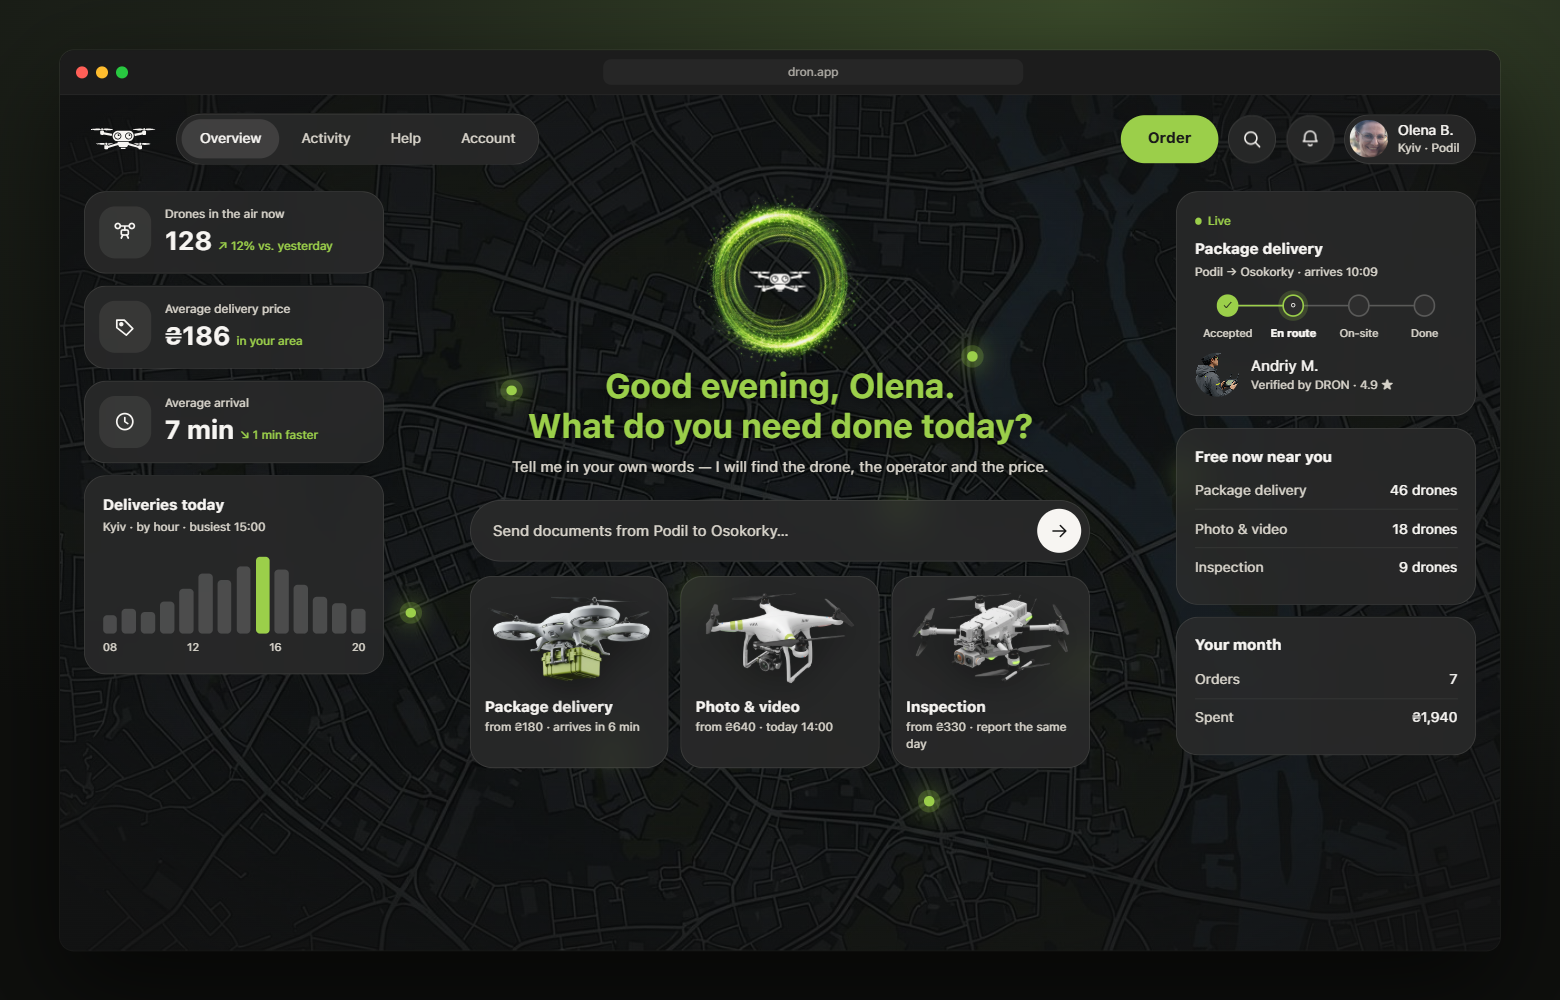
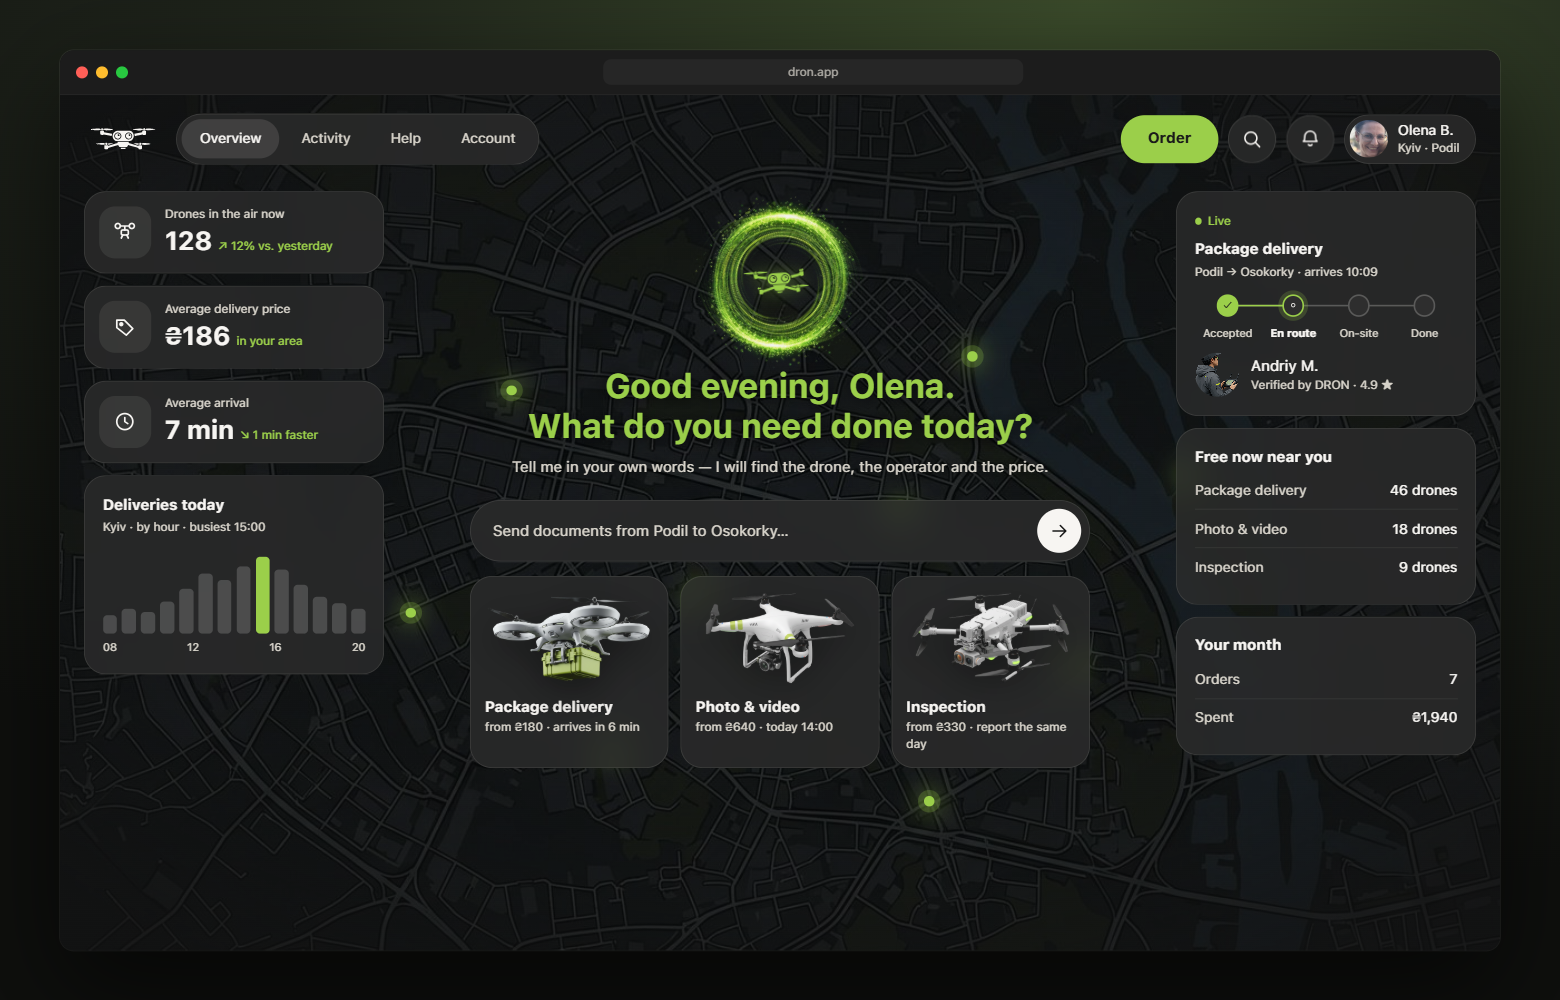
AI preview: the agent's drone is green, its propellers turn and it sways as it hovers

Changed region(s): [[0.4308, 0.186, 0.5538, 0.372]]

diff --git a/responsive/_preview-desktop-ai.html b/responsive/_preview-desktop-ai.html
@@ -70,6 +70,19 @@
                background: url(preview-art/agent-glow.png) center/cover; opacity:.95;
                animation: x-spin 24s linear infinite; }
   @keyframes x-spin { to { transform: rotate(360deg); } }
+  /* the flying mark: green, its four propellers turning, the body swaying as it hovers */
+  .x-fly { width:70px; height:24px; overflow:visible; fill: var(--color-action); filter: drop-shadow(0 0 8px rgba(155,207,74,.55)); }
+  .x-fly__body { transform-box: fill-box; transform-origin: 50% 60%; animation: x-sway 3.6s ease-in-out infinite; }
+  .x-prop { transform-box: fill-box; transform-origin: center; animation: x-prop .14s linear infinite; }
+  .x-prop--tr, .x-prop--bl { animation-delay: -.07s; }
+  @keyframes x-prop { 0%,100% { transform: scaleX(1); } 50% { transform: scaleX(.18); } }
+  @keyframes x-sway {
+    0%   { transform: translate(-5px, 0)    rotate(-6deg); }
+    25%  { transform: translate(0, -3px)    rotate(0deg); }
+    50%  { transform: translate(5px, 0)     rotate(6deg); }
+    75%  { transform: translate(0, 2px)     rotate(0deg); }
+    100% { transform: translate(-5px, 0)    rotate(-6deg); } }
+  @media (prefers-reduced-motion: reduce) { .x-fly__body, .x-prop { animation:none; } }
   @media (prefers-reduced-motion: reduce) { .x-orb > i { animation:none; } }
   .x-orb .dr-brand { position:relative; width:62px; height:23px; background:#F7F5F2; filter: drop-shadow(0 0 10px rgba(247,245,242,.5)); }
   .x-talk .x-orb .dr-brand { width:26px; height:10px; }
@@ -177,7 +190,7 @@
     </aside>
 
     <section class="x-agent" aria-label="DRON assistant">
-      <div class="x-orb"><i aria-hidden="true"></i><span class="dr-brand" role="img" aria-label="DRON"></span></div>
+      <div class="x-orb"><i aria-hidden="true"></i><svg class="x-fly" viewBox="0 85 257 86" role="img" aria-label="DRON"><g class="x-fly__body"><path d="M134.562 139.657C139.664 139.658 146.389 139.5 151.382 139.868C150.984 141.355 150.562 142.836 150.115 144.311C159.279 146.64 168.469 149.712 177.476 152.57C181.414 153.821 185.314 155.137 189.047 156.898L189.276 153.86C193.148 153.815 199.501 153.931 203.228 154.268C203.246 157.757 203.813 165.724 202.937 168.598C201.655 169.843 199.563 170.331 197.795 170.379C192.412 170.525 189.205 170.69 188.936 164.715C185.098 164.061 176.035 161.262 172.165 160.131C164.436 157.871 155.866 155.601 148.284 153.053L146.833 155.86C145.925 157.537 144.768 159.497 142.948 160.364C140.897 161.342 116.227 161.345 113.561 160.436C111.313 159.669 109.432 155.1 108.458 153.165C97.3799 156.617 85.743 159.364 74.6133 162.736C72.5648 163.357 70.4584 163.927 68.3809 164.453C68.2577 167.359 67.6582 169.523 64.2471 170.245C61.9199 170.738 54.2735 170.886 53.6827 167.902L53.6573 167.767C53.2528 165.738 53.5011 156.628 53.5274 153.931C57.2809 153.924 64.09 153.664 67.4542 154.016C68.0263 154.488 67.9219 154.77 68.1231 155.624C68.7451 155.76 102.284 145.63 106.523 144.43C106.178 142.869 105.857 141.304 105.561 139.734L134.562 139.657ZM118.426 163.557C124.218 163.303 130.652 163.57 136.507 163.465C137.41 163.449 137.914 163.489 138.448 164.043C138.764 165.348 137.993 166.558 137.398 167.742C135.711 169.657 123.157 169.069 120.406 168.284C119.626 168.061 118.518 164.476 118.426 163.557ZM135.191 95.5869C140.649 95.5867 151.884 95.0279 156.317 96.3848C171.371 100.992 176.141 121.474 164.703 132.057C160.104 136.312 157.137 137.006 151.162 136.983C135.886 137.159 120.478 136.772 105.203 136.874C98.793 136.917 94.0458 135.012 90.4171 129.778C80.9254 116.09 88.8662 96.9445 106.37 95.6973C107.205 95.6192 108.727 95.6147 109.592 95.6074L135.191 95.5869ZM121.193 114.681C119.974 107.065 112.648 101.849 104.821 103.023C96.977 104.2 91.6023 111.348 92.8233 118.98C94.0448 126.613 101.399 131.832 109.239 130.632C117.063 129.434 122.412 122.296 121.193 114.681ZM164.553 115.991C164.117 108.326 157.386 102.45 149.508 102.858C141.607 103.268 135.549 109.842 135.985 117.53C136.423 125.218 143.189 131.101 151.088 130.66C158.964 130.22 164.989 123.657 164.553 115.991ZM104.69 106.195C110.774 104.954 116.731 108.779 117.951 114.71C119.171 120.641 115.187 126.403 109.081 127.537C103.054 128.656 97.2255 124.839 96.0206 118.983C94.8158 113.128 98.6848 107.421 104.69 106.195ZM147.862 106.184C153.882 104.9 159.829 108.615 161.136 114.476C162.442 120.336 158.612 126.115 152.588 127.375C146.581 128.631 140.663 124.916 139.36 119.073C138.058 113.23 141.861 107.464 147.862 106.184ZM37.0499 96.127C40.2966 96.0352 48.7757 95.9395 51.8057 96.4463C52.0005 98.0221 51.9215 100.27 51.9102 101.914C62.4041 103.419 74.0539 106.003 84.4922 108.121C83.7433 110.276 82.8931 114.861 82.3233 117.313C79.943 116.669 75.2325 115.875 72.6143 115.324C65.2613 113.802 57.9231 112.21 50.6016 110.55C50.3201 110.916 50.0118 111.262 49.6778 111.583C47.3823 113.783 40.0354 113.165 38.2129 110.986C35.9837 108.322 36.9734 99.6022 37.0499 96.127ZM204.497 96.3779C209.287 96.2337 214.691 96.3076 219.467 96.3692C219.494 101.069 219.488 105.77 219.448 110.47C215.135 113.377 209.853 114.014 205.463 110.836C200.028 112.444 192.748 113.671 187.066 114.761C183.858 115.156 178.202 116.5 174.578 117.124L172.885 107.998C182.779 105.875 194.251 103.973 204.216 102.278C204.24 100.162 204.314 98.4857 204.497 96.3779ZM113.212 111.92C111.924 110.139 109.882 108.738 107.975 109.712C103.163 112.169 108.976 117.712 111.918 116.973C114.191 116.401 114.815 114.138 113.212 111.92ZM154.978 116.845C159.62 115.042 156.439 108.334 151.97 109.938C147.5 111.541 151.505 118.193 154.978 116.845Z"/><path class="x-prop x-prop--tl" d="M43.7569 85.6768C47.0874 85.4376 47.4774 86.6343 48.1631 89.4522C50.6311 88.4218 53.2948 87.2419 55.9532 86.8047C60.6597 86.0305 84.9501 87.9217 87.5919 89.9102C87.9351 90.1689 87.8832 90.4059 87.9454 90.8047C87.7449 91.1104 87.5224 91.5689 87.1104 91.6494C80.1087 93.0403 72.9139 93.8358 65.7872 94.4229C58.4658 95.0257 54.4571 93.5186 47.7608 91.169C47.4524 93.8534 47.5737 94.7502 44.7012 94.9404C41.5453 95.1494 41.537 94.0497 41.0547 91.3379C37.8203 92.4405 34.0901 94.1795 30.6504 94.3506C27.6092 94.5019 24.4667 94.44 21.4327 94.2422C18.2714 94.0363 1.99609 92.3456 0.122128 90.6143C-0.0498591 90.4552 0.012679 90.0014 0.00494034 89.7666C1.39993 87.8339 26.9564 86.137 31.0381 86.7041C33.0956 86.99 38.4037 88.7789 40.6299 89.5186C41.4057 87.1766 41.2836 86.5541 43.7569 85.6768Z"/><path class="x-prop x-prop--tr" d="M211.335 85.5772C214.688 84.9906 214.84 87.1084 215.187 89.919L215.305 89.8692C217.415 88.9906 223.302 87.0417 225.212 86.7139C229.552 85.9689 255.689 87.7388 256.745 90.3692C256.593 90.6991 256.477 91.0653 255.992 91.167C246.81 93.0868 235.102 94.723 225.774 94.1035C223.192 93.9319 217.338 91.8163 215.089 91.0156C215.023 92.4776 215.583 93.9897 214.283 94.6455C212.77 95.4086 210.709 95.396 209.243 94.5479C208.386 94.0516 208.868 92.0731 208.726 91.0547C205.506 92.2602 200.349 94.1827 197.016 94.5567C193.125 94.993 169.117 92.8202 167.92 90.624C168.445 88.9807 171.174 88.8525 172.732 88.6963C180.668 87.9007 188.951 86.5004 196.915 86.8359C200.261 86.9771 204.916 88.4071 208.189 89.2852C209.082 87.0969 209.008 85.9845 211.335 85.5772Z"/><path class="x-prop x-prop--bl" d="M60.2344 143.793C64.4215 142.961 63.4188 145.066 64.9776 147.319C67.7665 147.183 70.8573 145.913 73.7881 145.454C77.7791 144.83 82.3705 146.114 86.503 146.022C87.0801 146.01 87.4827 146.28 87.8087 146.686L87.5889 147.208C86.7803 147.897 73.9714 151.197 71.9307 151.693C70.2101 151.279 66.2276 149.433 64.3106 148.655C64.2168 149.68 64.7415 150.895 63.794 151.99C62.8462 153.085 60.3631 153.208 58.836 152.118C57.8742 151.432 57.9299 150.228 57.8311 149.165L52.0157 151.394C49.8489 151.984 47.7245 152.181 45.4815 152.185C41.8048 152.191 22.4874 150.543 20.0284 149.111C19.6004 148.862 19.6399 148.785 19.5137 148.342C21.02 145.996 44.1194 144.314 48.3594 144.87C50.5748 145.161 55.2029 146.893 57.4483 147.734C57.9683 145.408 57.7913 144.278 60.2344 143.793Z"/><path class="x-prop x-prop--br" d="M196.037 143.853C199.061 143.971 199.289 145.081 199.524 147.827C202.516 146.756 205.559 145.543 208.71 145.012C212.88 144.309 234.052 146.096 236.707 148.057C237.049 148.308 237.002 148.361 237.062 148.772C235.919 150.013 233.237 150.062 231.534 150.258C224.319 151.276 215.016 153 207.848 151.793C205.29 151.362 201.843 150.03 199.348 149.108C199.338 149.7 199.319 151.175 199.15 151.688C198.64 153.245 194.496 153.014 193.576 152.251C191.922 150.879 192.353 146.617 193.552 144.897C194.16 144.026 195.047 143.814 196.037 143.853ZM170.785 145.563C174.665 145.508 189.487 145.006 192.03 148.202C192.275 149.776 190.671 150.058 189.422 150.342C187.702 150.778 184.808 152.215 183.151 151.748C181.027 151.149 170.097 147.542 169.238 146.127L169.514 145.742L170.785 145.563Z"/></g></svg></div>
       <h1>Good evening, Olena.<br>What do you need done today?</h1>
       <p>Tell me in your own words — I will find the drone, the operator and the price.</p>
       <div class="x-ask glass"><span>Send documents from Podil to Osokorky…</span><span class="x-circ"><svg viewBox="0 0 24 24" fill="none" stroke="currentColor" stroke-width="1.7" stroke-linecap="round" stroke-linejoin="round" aria-hidden="true"><path d="M5 12h13M13 6l6 6-6 6"/></svg></span></div>
